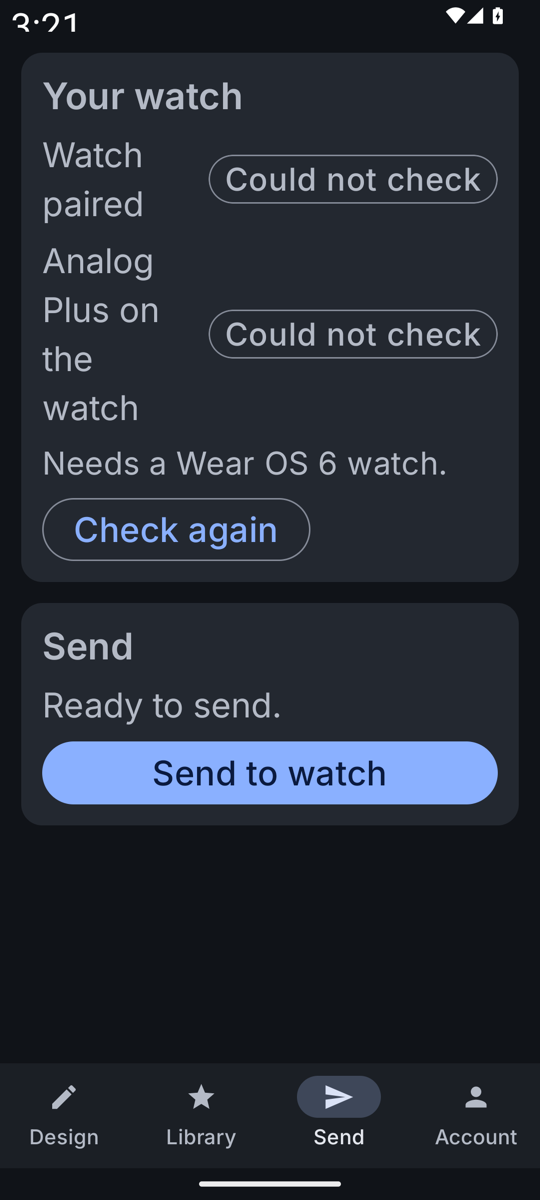
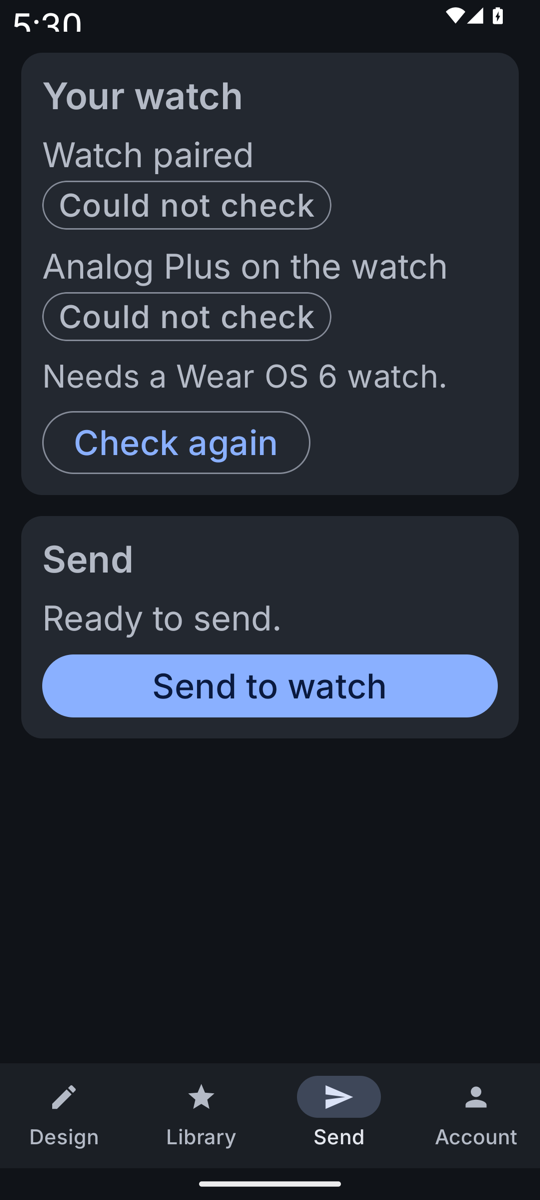
fix(phone): Send status rows wrap whole words at 2x font scale (FlowRow); font-scale-2 tests for Send, Design and Library; refresh send 2x screenshots

diff --git a/phone/src/androidTest/kotlin/com/seyedjafari/analogplus/phone/AccessibilityTest.kt b/phone/src/androidTest/kotlin/com/seyedjafari/analogplus/phone/AccessibilityTest.kt
@@ -8,6 +8,7 @@ import androidx.compose.ui.text.TextLayoutResult
 import androidx.compose.ui.test.assertContentDescriptionEquals
 import androidx.compose.ui.test.assertHeightIsAtLeast
 import androidx.compose.ui.test.assertIsDisplayed
+import androidx.compose.ui.test.SemanticsNodeInteraction
 import androidx.compose.ui.test.assertWidthIsAtLeast
 import androidx.compose.ui.test.hasAnyAncestor
 import androidx.compose.ui.test.hasTestTag
@@ -20,7 +21,14 @@ import androidx.compose.ui.unit.Density
 import androidx.compose.ui.unit.dp
 import androidx.test.ext.junit.runners.AndroidJUnit4
 import com.seyedjafari.analogplus.facegen.design.DesignSettings
+import com.seyedjafari.analogplus.phone.ui.design.DesignSection
+import com.seyedjafari.analogplus.phone.ui.design.tag
+import com.seyedjafari.analogplus.phone.ui.library.LibrarySection
+import com.seyedjafari.analogplus.phone.ui.library.tag
 import com.seyedjafari.analogplus.phone.ui.nav.Destination
+import com.seyedjafari.analogplus.phone.ui.send.CheckStatus
+import com.seyedjafari.analogplus.phone.ui.send.WatchStatus
+import com.seyedjafari.analogplus.phone.ui.send.WatchStatusChecker
 import org.junit.Assert.assertEquals
 import org.junit.Assert.assertFalse
 import org.junit.Rule
@@ -31,16 +39,46 @@ import org.junit.runner.RunWith
 class AccessibilityTest {
     @get:Rule val rule = createComposeRule()
 
-    private fun show(fontScale: Float = 1f) {
+    private fun show(fontScale: Float = 1f, watch: WatchStatusChecker = watchReady) {
         val state = EditorState(DesignSettings())
         val store = testStore()
         rule.setContent {
             val base = LocalDensity.current
             CompositionLocalProvider(LocalDensity provides Density(base.density, fontScale)) {
-                AppShell(state, store, testSend(store), watchReady, null) {}
+                AppShell(state, store, testSend(store), watch, null) {}
             }
         }
     }
+
+    /** The text layouts of [node]'s unmerged text (empty when it has none). */
+    private fun layoutsOf(node: SemanticsNodeInteraction): List<TextLayoutResult> {
+        val getLayout = node.fetchSemanticsNode().config.getOrNull(SemanticsActions.GetTextLayoutResult)?.action
+        val layouts = ArrayList<TextLayoutResult>()
+        rule.runOnUiThread { getLayout?.invoke(layouts) }
+        return layouts
+    }
+
+    /**
+     * The text of [node] is displayed and no line ends inside a word: every line break falls on whitespace, so a label
+     * squeezed narrower than its longest word would fail here (it breaks mid-word) instead of wrapping between words.
+     */
+    private fun assertWholeWordsOnly(what: String, node: SemanticsNodeInteraction) {
+        node.assertIsDisplayed()
+        val layout = layoutsOf(node).singleOrNull() ?: throw AssertionError("no text layout for $what")
+        val text = layout.layoutInput.text.text
+        for (line in 0 until layout.lineCount - 1) {
+            val end = layout.getLineEnd(line, visibleEnd = false)
+            val brokeMidWord = end in 1 until text.length && !text[end - 1].isWhitespace() && !text[end].isWhitespace()
+            assertFalse("$what breaks mid-word at line ${line + 1}: '${text.substring(0, end)}' | '${text.substring(end)}'", brokeMidWord)
+        }
+        assertFalse("$what is cut off", layout.didOverflowHeight)
+    }
+
+    private fun assertWholeWords(text: String) =
+        assertWholeWordsOnly("'$text'", rule.onNode(hasText(text), useUnmergedTree = true))
+
+    private fun assertChipLabelWhole(tag: String, label: String) =
+        assertWholeWordsOnly("the $label chip", rule.onNode(hasText(label) and hasAnyAncestor(hasTestTag(tag)), useUnmergedTree = true))
 
     @Test fun everyNavigationItemHasALabelAndIsAtLeast48dp() {
         show()
@@ -76,5 +114,45 @@ class AccessibilityTest {
         show()
         rule.onNodeWithTag(presetTag(Tags.ACCENT_FIELD, "#FFFFFFFF")).performScrollTo()
             .assertHeightIsAtLeast(48.dp).assertWidthIsAtLeast(48.dp)
+    }
+
+    /** The worst case for the status rows: the longest pill text ("Check: Not installed") next to the longest label. */
+    @Test fun sendStatusRowsNeverBreakMidWordAtFontScale2() {
+        show(fontScale = 2f, watch = { WatchStatus(CheckStatus.OK, CheckStatus.ACTION_NEEDED) })
+        rule.onNodeWithTag(Destination.SEND.tag).performClick()
+        rule.waitUntil(5_000) { rule.onAllNodes(hasText("Check: Not installed"), useUnmergedTree = true).fetchSemanticsNodes().isNotEmpty() }
+        assertWholeWords("Watch paired")
+        assertWholeWords("Analog Plus on the watch")
+        assertWholeWords("OK: Found")
+        assertWholeWords("Check: Not installed")
+        assertWholeWords("Check again")
+        rule.onNodeWithTag(Tags.SEND_BUTTON).performScrollTo()
+        assertWholeWords("Send to watch")
+    }
+
+    @Test fun designKeyControlsAreDisplayedWithoutBrokenWordsAtFontScale2() {
+        show(fontScale = 2f)
+        rule.onNodeWithTag(Tags.ACCENT_FIELD).assertIsDisplayed()
+        rule.onNodeWithTag(Tags.field("design_send")).assertIsDisplayed()
+        assertWholeWords("Send to watch")
+        DesignSection.entries.forEach { section ->
+            rule.onNodeWithTag(section.tag()).performScrollTo().performClick()
+            rule.onNodeWithTag(section.tag()).assertIsDisplayed()
+            assertChipLabelWhole(section.tag(), section.label)
+        }
+    }
+
+    @Test fun libraryKeyControlsAreDisplayedWithoutBrokenWordsAtFontScale2() {
+        show(fontScale = 2f)
+        rule.onNodeWithTag(Destination.LIBRARY.tag).performClick()
+        LibrarySection.entries.forEach { section ->
+            rule.onNodeWithTag(section.tag()).performScrollTo().performClick()
+            rule.onNodeWithTag(section.tag()).assertIsDisplayed()
+            assertChipLabelWhole(section.tag(), section.label)
+        }
+        rule.onNodeWithTag(LibrarySection.MY_DESIGNS.tag()).performClick()
+        rule.onNodeWithTag(Tags.SAVE_NAME_FIELD).performScrollTo().assertIsDisplayed()
+        rule.onNodeWithTag(Tags.SAVE_BUTTON).performScrollTo().assertIsDisplayed()
+        assertWholeWords("Save current design")
     }
 }

diff --git a/phone/src/main/kotlin/com/seyedjafari/analogplus/phone/ui/send/SendScreen.kt b/phone/src/main/kotlin/com/seyedjafari/analogplus/phone/ui/send/SendScreen.kt
@@ -2,7 +2,8 @@ package com.seyedjafari.analogplus.phone.ui.send
 
 import androidx.compose.foundation.layout.Arrangement
 import androidx.compose.foundation.layout.Column
-import androidx.compose.foundation.layout.Row
+import androidx.compose.foundation.layout.ExperimentalLayoutApi
+import androidx.compose.foundation.layout.FlowRow
 import androidx.compose.foundation.layout.fillMaxSize
 import androidx.compose.foundation.layout.fillMaxWidth
 import androidx.compose.foundation.layout.padding
@@ -19,7 +20,6 @@ import androidx.compose.runtime.mutableIntStateOf
 import androidx.compose.runtime.mutableStateOf
 import androidx.compose.runtime.remember
 import androidx.compose.runtime.setValue
-import androidx.compose.ui.Alignment
 import androidx.compose.ui.Modifier
 import androidx.compose.ui.platform.testTag
 import androidx.lifecycle.compose.LifecycleResumeEffect
@@ -85,10 +85,18 @@ private fun WatchStatusCard(watch: WatchStatusChecker) {
     }
 }
 
+/**
+ * Label and pill side by side while both fit; otherwise the pill drops under the label. The label is not weighted, so a
+ * wide pill can never squeeze it narrower than its longest word (it used to break "Analog" at 2x font scale).
+ */
+@OptIn(ExperimentalLayoutApi::class)
 @Composable
 private fun StatusRow(label: String, status: CheckStatus, ok: String, action: String, tag: String) {
-    Row(Modifier.fillMaxWidth(), verticalAlignment = Alignment.CenterVertically, horizontalArrangement = Arrangement.spacedBy(Spacing.md)) {
-        Text(label, style = MaterialTheme.typography.bodyMedium, modifier = Modifier.weight(1f))
+    FlowRow(
+        Modifier.fillMaxWidth(), horizontalArrangement = Arrangement.SpaceBetween,
+        verticalArrangement = Arrangement.spacedBy(Spacing.xs),
+    ) {
+        Text(label, style = MaterialTheme.typography.bodyMedium, modifier = Modifier.padding(end = Spacing.md))
         val (text, kind) = when (status) {
             CheckStatus.OK -> ok to StatusKind.OK
             CheckStatus.ACTION_NEEDED -> action to StatusKind.WARNING
